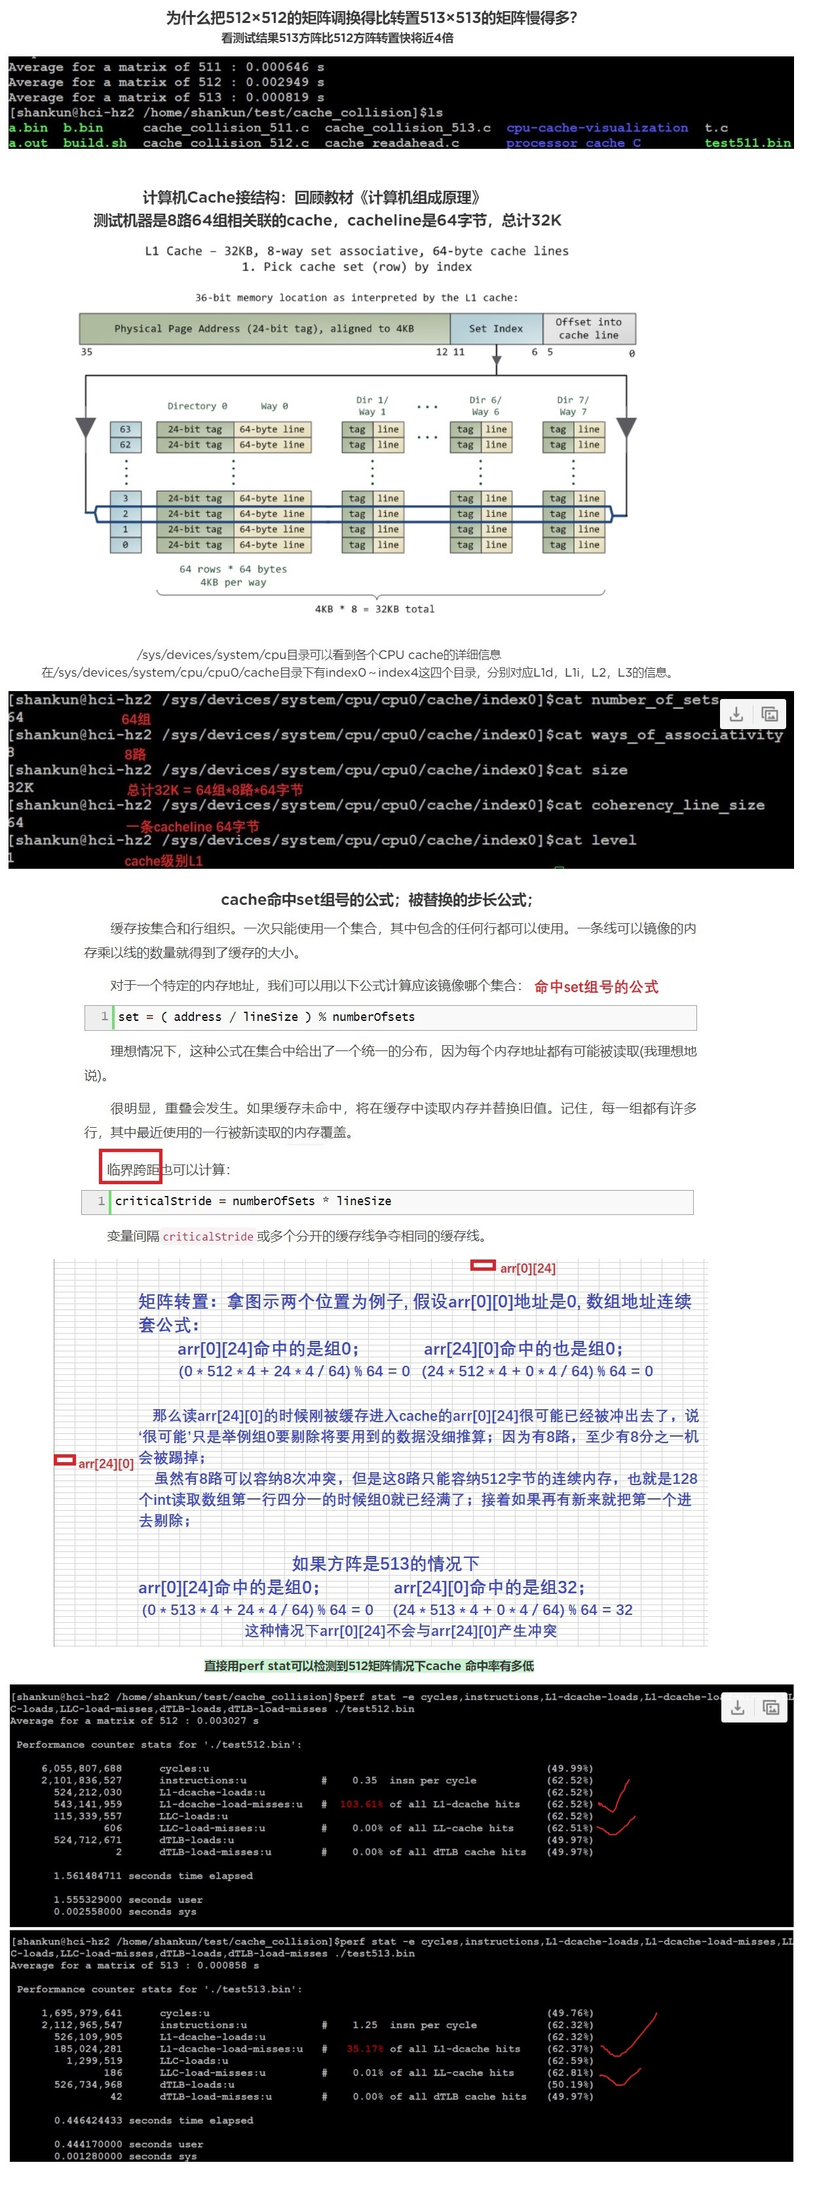
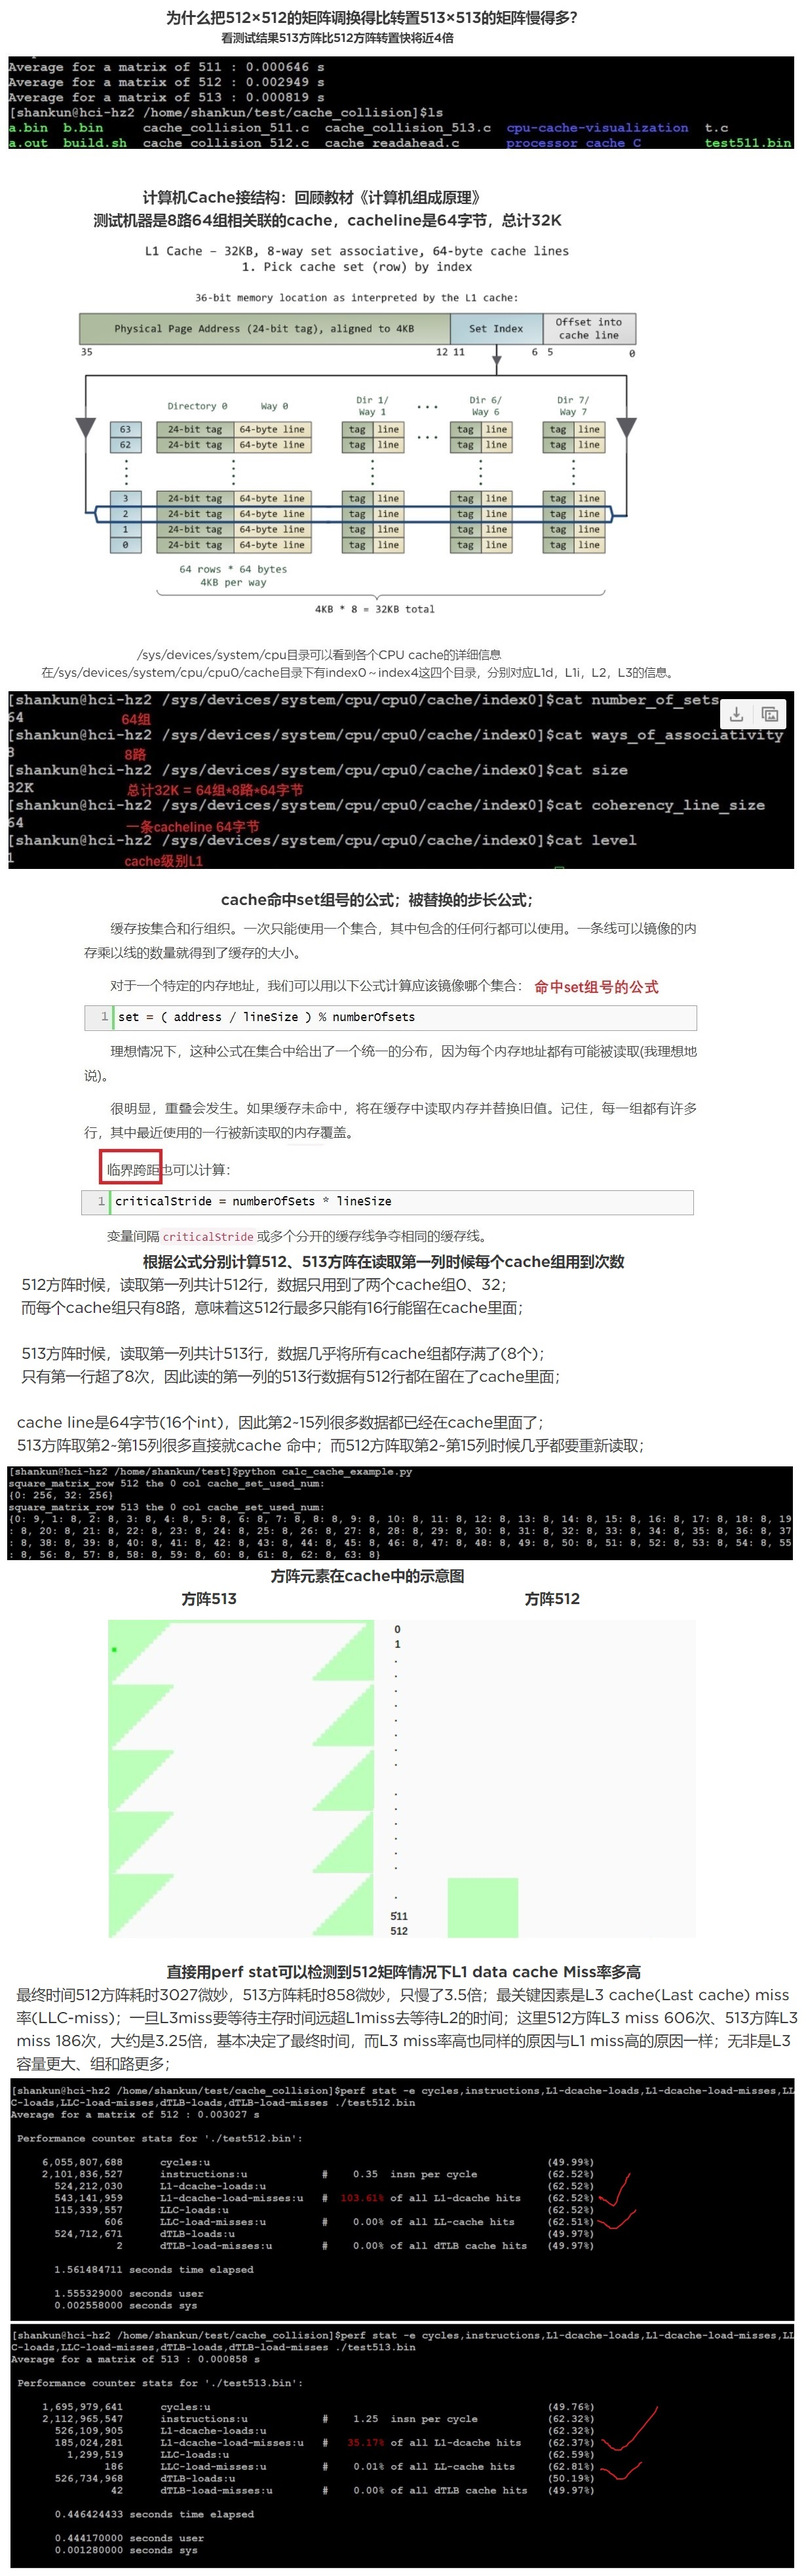
更新图例

diff --git a/cache_collision/calc_cache_example.py b/cache_collision/calc_cache_example.py
@@ -1,0 +1,25 @@
+#!/usr/bin/python
+# -*- coding: UTF-8 -*-
+import math
+
+set_len  = 64
+way_len  = 8
+line_len = 64
+int_len  = 4.0
+
+#第一列举列子查看方阵每个set组命被使用次数
+def cache_set_used_num(square_matrix_row):
+    sta_dict = {}
+    for i in range(square_matrix_row):
+        set_num = int(math.ceil(((square_matrix_row * i + 0)* int_len )/line_len))%set_len
+        if sta_dict.has_key(set_num):
+            sta_dict[set_num] = sta_dict[set_num]+1;
+        else:
+            sta_dict[set_num] = 1;
+    return sta_dict
+    
+
+print("square_matrix_row 512 the 0 col cache_set_used_num:")
+print(cache_set_used_num(512))
+print("square_matrix_row 513 the 0 col cache_set_used_num:")
+print(cache_set_used_num(513))
